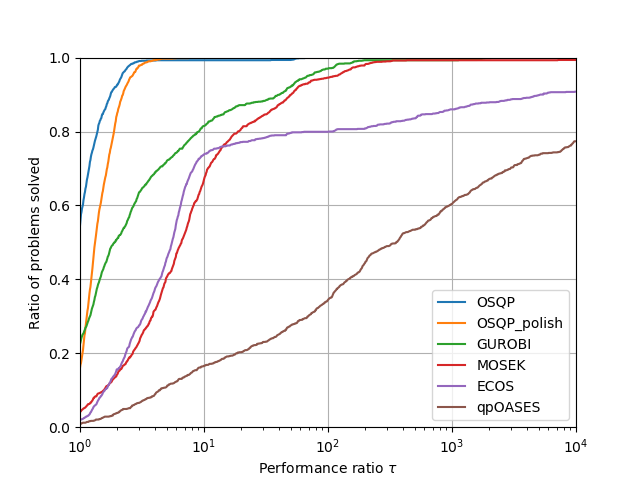
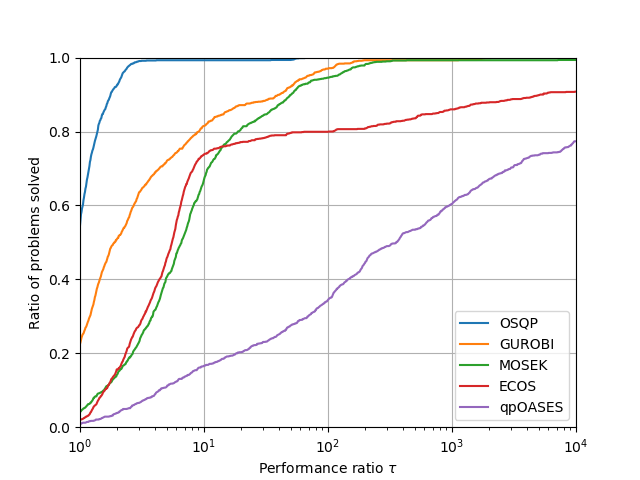
Removed osqp polish from performance profiles

diff --git a/utils/benchmark.py b/utils/benchmark.py
@@ -15,6 +15,12 @@ def plot_performance_profiles(problems, solvers):
     """
     Plot performance profiles in matplotlib for specified problems and solvers
     """
+    # Remove OSQP polish solver
+    solvers = solvers.copy()
+    for s in solvers:
+        if "polish" in s:
+            solvers.remove(s)
+
     df = pd.read_csv('./results/%s/performance_profiles.csv' % problems)
     plt.figure(0)
     for solver in solvers:
